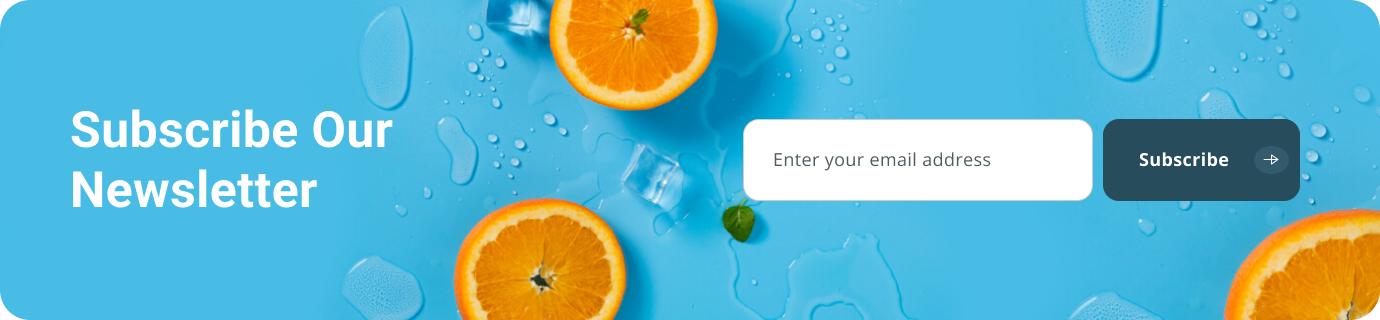
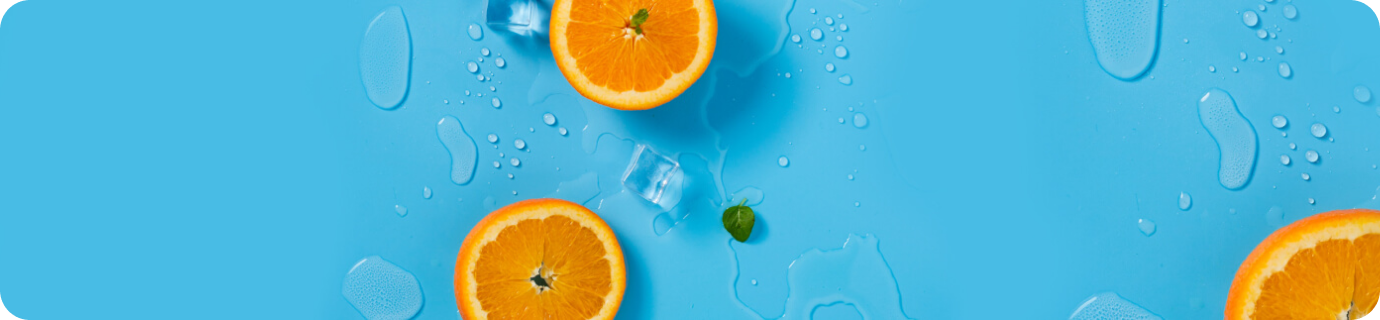
added initial styles for subscription section

Changed region(s): [[0.5297, 0.375, 0.9659, 0.625], [0.0312, 0.3438, 0.2804, 0.4688], [0.0312, 0.5312, 0.2493, 0.6562]]

diff --git a/css/main.min.css b/css/main.min.css
@@ -1,2 +1,2 @@
-.container{padding:0 30px;margin:0 auto;width:1440px}*,*::before,*::after{margin:0;padding:0}body{font-family:"Roboto",sans-serif;font-style:normal}img{display:block}.section{padding-top:130px;padding-bottom:130px}.list{list-style:none}.link{text-decoration:none}.link:focus{color:title-color}.address{font-style:normal}.about{margin-top:140px}.about__container{display:flex;justify-content:space-between;align-items:flex-start;padding:177px 0 150px 0}.about__description{margin-top:-40px}.about__title{font-weight:400;font-size:36px;line-height:1.80556;letter-spacing:.36px;text-transform:capitalize;color:#7eb693;font-family:"Yellowtail"}.about__mission{font-family:"Roboto",sans-serif;color:#274c5b;font-weight:700;font-size:45px;line-height:1.28;letter-spacing:0.36px;text-transform:capitalize}.about__mission-list{margin-top:30px}.about__mission-item{display:flex;justify-content:space-between;align-items:center;margin-top:30px}.about__mission-icon{display:inline-block}.about__description-welcome{font-family:'Open Sans';color:#525c60;font-weight:400;font-size:18px;line-height:32px;letter-spacing:0.36px;margin-top:22px;margin-bottom:50px}.about__mission-item-detailes{font-family:'Open Sans';color:#525c60;font-weight:400;font-size:18px;line-height:32px;letter-spacing:0.36px;margin-left:20px}.about__mission-item-title{display:block;font-family:"Roboto",sans-serif;color:#274c5b;font-weight:400;font-size:25px;line-height:35px;letter-spacing:0.36px}.about__mission-item-title:hover{font-weight:600;transition:font-weight 250ms linear}.about__button{width:199px;height:82px;font-weight:400;font-size:19px;line-height:1.68;letter-spacing:0.36px;font-family:"Roboto",sans-serif;background-color:#274c5b;color:#fff;border:none;border-radius:30px;margin-top:50px;cursor:pointer}.about__button:hover{box-shadow:0px 4px 4px rgba(0,0,0,0.25);transition:box-shadow 250ms linear}.about__button__container{margin:0;padding-left:30px;display:flex;justify-content:center;align-items:center}.about__button-icon{display:block;background-color:#335b6b;border-radius:50%;margin-left:25px;margin-right:10px;width:38px;height:34px;padding:12px}.about .container{background-color:#f9f8f8}.about__link{display:flex;justify-content:space-between}.ads{width:1440px;margin:0 auto}.ads__list{display:flex;justify-content:space-between;padding:140px 0;background-color:#eff6f1}.ads__item{display:block;height:580px;width:460px}.ads__item:first-child{background-image:url("../images/fruit.png")}.ads__item:nth-child(2){background-image:url("../images/food.png")}.ads__item:nth-child(3){background-image:url("../images/nuts.png")}.ads__item:not(:last-child){margin-right:30px}.ads__description{display:block;width:312px;height:95px;background-color:#ffffff;border-radius:25px;font-family:"Roboto",sans-serif;font-style:normal;font-weight:700;font-size:25px;line-height:1.4;text-align:center;letter-spacing:0.36px;color:#274c5b;padding-top:30px;margin:auto;margin-top:243px}.ads__description:hover{font-size:35px;padding-top:20px;transition:font-size 250ms linear}.cart__container{display:flex;justify-content:space-around;align-items:center;margin-left:350px;height:70px;width:159px;border:1px solid #d4d4d4;border-radius:40px}.cart__container:hover{box-shadow:0px 4px 4px rgba(0,0,0,0.25);transition:box-shadow 250ms linear}.cart__details{font-family:"Roboto",sans-serif;font-style:normal;font-weight:400;font-size:17px;line-height:1.7;color:#274c5b;letter-spacing:0.36px}.cart__added{padding-right:20px;padding-left:5px}.farm{margin:0 auto;display:block;width:1440px;height:704}.farm__container{display:flex;justify-content:center}.farm__image{background-image:url("../images/farm.png");background-repeat:no-repeat;background-size:auto;width:720px;height:704px}.farm__description{height:623px;width:790px;border-radius:30px;margin-top:40px;margin-left:-60px;padding-left:40px;padding-bottom:55px;background-color:#ffffff;position:relative;left:60}.farm__title{font-weight:400;font-size:36px;line-height:1.80556;letter-spacing:.36px;text-transform:capitalize;color:#7eb693;font-family:"Yellowtail";padding-top:40px;padding-top:40px}.farm__mission-title{font-family:"Roboto",sans-serif;color:#274c5b;font-weight:700;font-size:45px;line-height:1.28;letter-spacing:0.36px;text-transform:capitalize;padding-bottom:30px}.farm__offer-title{font-family:"Roboto",sans-serif;font-weight:700;font-size:23px;line-height:32px;letter-spacing:0.36px;text-transform:capitalize;color:#274c5b}.farm__offer-description{font-family:"Open Sans",sans-serif;font-weight:400;font-size:18px;line-height:1.78;letter-spacing:0.36px;color:#525c60;margin-top:4px;margin-bottom:15px}.header .container{display:flex;justify-content:center}.header{display:flex;width:100%;padding:40px 0}.header__logo{margin-right:160px}.navigation{display:flex;align-items:center}.navigation__list{display:flex}.navigation__list-element:not(:last-child){margin-right:40px}.navigation__list-link{font-weight:400;font-size:20px;line-height:1.6;letter-spacing:0.36px;color:#274c5b;transition:color 250ms linear}.navigation__list-link:hover,.navigation__list-link:focus{color:#7eb693}.hero{padding:230px 30px 250px 30px;margin:0 auto;display:block;height:913px;width:1440px;background-image:url("../images/hero.png");background-repeat:no-repeat;background-size:cover}.hero__title{font-weight:700;font-size:70px;line-height:1.2;letter-spacing:0.36px;color:#274c5b}.hero__description{font-weight:400;font-size:36px;line-height:1.80556;letter-spacing:.36px;text-transform:capitalize;color:#7eb693;font-family:"Yellowtail"}.hero__button{width:219px;height:82px;font-weight:400;font-size:19px;line-height:1.68;letter-spacing:0.36px;font-family:"Roboto",sans-serif;background-color:#efd372;color:#274c5b;border:none;border-radius:30px;margin-top:35px;cursor:pointer}.hero__button:hover{box-shadow:0px 4px 4px rgba(0,0,0,0.25);transition:box-shadow 250ms linear}.hero__button__container{margin:0;padding-left:15px;display:flex;justify-content:center;align-items:center}.hero__button-icon{display:block;background-color:#335b6b;border-radius:50%;margin-left:30px;width:38px;height:34px;padding:12px}.news{padding-top:130px;margin:0 auto;display:block;height:1060px;width:1440px}.news__title{font-weight:400;font-size:36px;line-height:1.80556;letter-spacing:.36px;text-transform:capitalize;color:#7eb693;font-family:"Yellowtail"}.news__offer{font-family:"Roboto",sans-serif;font-weight:700;font-size:45px;line-height:1.32;letter-spacing:0.36px;text-transform:capitalize;color:#274c5b}.news__header-container{display:flex;justify-content:space-between;align-items:baseline}.news__button{width:210px;height:82px;font-weight:400;font-size:19px;line-height:1.68;letter-spacing:0.36px;font-family:"Roboto",sans-serif;background-color:#ffffff;color:#274c5b;border:1px solid #335b6b;border-radius:20px;margin-top:35px;cursor:pointer}.news__button:hover{box-shadow:0px 4px 4px rgba(0,0,0,0.25);transition:box-shadow 250ms linear}.news__button__container{margin:0;padding-left:15px;display:flex;justify-content:center;align-items:center}.news__button-icon{display:block;background-color:#335b6b;border-radius:50%;margin-left:30px;width:38px;height:34px;padding:12px}.news__list{display:flex;margin-top:104px}.news__item:first-child{width:670px;height:515px;margin-right:30px;background-image:url("../images/salad.png")}.news__item:nth-child(2){width:670px;height:515px;background-image:url("../images/tomatoes.png")}.news__card{display:block;width:610px;height:337px;background-color:#ffffff;background:#ffffff;box-shadow:0px 2px 18px rgba(0,0,0,0.14);border-radius:30px;margin:250px auto 0;padding-top:50px;padding-left:50px}.news__author{font-family:"Roboto",sans-serif;font-style:normal;font-weight:400;font-size:17px;line-height:1.27;letter-spacing:0.36px;color:#274c5b}.news__user-container{display:flex;align-items:center}.news__card-title{font-family:"Roboto",sans-serif;font-style:normal;font-weight:700;font-size:25px;line-height:1.4;letter-spacing:0.36px;color:#274c5b;margin:10px 0 38px}.news__description{font-family:"Open Sans",sans-serif;font-style:normal;font-weight:400;font-size:18px;line-height:1.78;letter-spacing:0.36px;color:#525c60;padding-right:118px;margin-bottom:30px}.news__loadmore{font-family:"Roboto",sans-serif;font-style:normal;font-weight:400;font-size:20px;line-height:28px;letter-spacing:0.36px;color:#274c5b}.news__loadmore-container{display:flex;align-items:center}.news__loadmore-button{display:block;background-color:#335b6b;border-radius:50%;margin-left:10px;width:38px;height:34px;padding:12px}.user__icon{width:18px;height:20px;margin-right:10px}.offers{padding-top:140px}.offers__list{display:flex;justify-content:space-between}.offers__header{font-weight:400;font-size:36px;line-height:1.80556;letter-spacing:.36px;text-transform:capitalize;color:#7eb693;font-family:"Yellowtail";padding-left:55px}.offers__img{height:378px;width:665px}.offers__description{color:#274c5b;font-family:"Roboto",sans-serif;font-weight:400;font-size:40px;line-height:1.3;letter-spacing:0.36px;padding-left:55px;width:507px}.natural{color:#ffffff}.organic{padding:140px 30px 1000px;margin:0 auto;display:block;height:1060px;width:1440px;background-color:#274c5b}.organic__title{font-weight:400;font-size:36px;line-height:1.80556;letter-spacing:.36px;text-transform:capitalize;color:#7eb693;font-family:"Yellowtail"}.organic__offer{font-weight:700;font-size:45px;line-height:1.29;letter-spacing:0.36px;text-transform:capitalize;color:#ffffff}.organic__header-container{display:flex;justify-content:space-between;align-items:baseline}.organic__button{width:267px;height:82px;font-weight:400;font-size:19px;line-height:1.68;letter-spacing:0.36px;font-family:"Roboto",sans-serif;background-color:#efd372;color:#274c5b;border:none;border-radius:20px;margin-top:35px;cursor:pointer}.organic__button:hover{box-shadow:0px 4px 4px rgba(0,0,0,0.25);transition:box-shadow 250ms linear}.organic__button__container{margin:0;padding-left:15px;display:flex;justify-content:center;align-items:center}.organic__button-icon{display:block;background-color:#335b6b;border-radius:50%;margin-left:30px;width:38px;height:34px;padding:12px}.products__title{font-weight:400;font-size:36px;line-height:1.80556;letter-spacing:.36px;text-transform:capitalize;color:#7eb693;font-family:"Yellowtail";text-align:center;padding-top:110px;margin-bottom:10px}.products__description{font-family:"Roboto",sans-serif;color:#274c5b;font-weight:700;font-size:45px;line-height:1.28;letter-spacing:0.36px;text-transform:capitalize;text-align:center}.products__list{margin-top:40px;display:flex;flex-wrap:wrap;justify-content:space-between}.products__category{font-weight:700;font-size:15px;display:inline-block;padding-top:10px;padding-bottom:10px;width:118px;color:#ffffff;background-color:#274c5b;border-radius:8px;text-align:center;vertical-align:baseline;position:absolute;top:37px}.products__item{position:relative;padding:67px 30px 20px;background-color:#f9f8f8;margin-bottom:40px;border-radius:20px}.products__item:hover{box-shadow:0px 4px 4px rgba(0,0,0,0.25)}.product__image:hover{box-shadow:0px 4px 4px rgba(0,0,0,0.25)}.product__name{font-family:"Roboto",sans-serif;font-weight:400;font-size:22px;line-height:35px;color:#274c5b;border-bottom:1px solid #e5e5e5;padding:20px 0;letter-spacing:0.36px}.product__description{margin-top:30px;display:flex;justify-content:space-between;align-items:center}.product__oldprice{font-family:'Open Sans';font-style:normal;font-weight:400;font-size:17px;line-height:32px;letter-spacing:0.36px;text-decoration-line:line-through;color:#b8b8b8}.product__price{font-family:'Open Sans';font-style:normal;font-weight:700;font-size:18px;line-height:32px;letter-spacing:0.36px;color:#274c5b}.product__rating{margin-left:50px}.testimonial{margin:0 auto;display:block;padding-bottom:150px;background-image:url("../images/testimonial.png");background-repeat:no-repeat;background-size:cover;width:1440px}.testimonial__title{font-weight:400;font-size:36px;line-height:1.80556;letter-spacing:.36px;text-transform:capitalize;color:#7eb693;font-family:"Yellowtail";text-align:center;padding-top:130px;margin-top:120px}.testimonial__question{font-family:"Roboto",sans-serif;color:#274c5b;font-weight:700;font-size:45px;line-height:1.28;letter-spacing:0.36px;text-transform:capitalize;text-align:center}.testimonial__profile{padding-bottom:90px;margin:0 auto;width:966px;border-bottom:2px solid #e0e0e0}.testimonial__customer-image{margin:60px auto 18px}.testimonial__message{font-family:'Open Sans';font-style:normal;font-weight:400;font-size:18px;line-height:32px;text-align:center;letter-spacing:0.36px;color:#525c60;margin-bottom:23px}.testimonial__message-author{font-family:"Roboto",sans-serif;font-style:normal;font-weight:700;font-size:26px;line-height:34px;text-align:center;letter-spacing:0.36px;color:#274c5b}.testimonial__message-author-status{font-family:'Open Sans';font-style:normal;font-weight:400;font-size:14px;line-height:27px;text-align:center;letter-spacing:0.36px;color:#525c60}.testimonial__list{display:flex;justify-content:space-between;margin-right:168px;margin-left:168px;width:1104px}.testimonial__item{display:inline-block;vertical-align:middle;text-align:center;font-family:"Roboto",sans-serif;font-style:normal;font-weight:700;font-size:42px;line-height:40px;text-align:center;letter-spacing:0.36px;color:#274c5b;width:250px;height:250px;border-radius:50%;border:6px solid #7eb693;margin-top:100px;padding-top:80px}.testimonial__options{font-family:'Open Sans';font-size:18px;line-height:32px;margin-top:-20px}.rating{text-align:center;margin:0 auto 25px}
+.container{padding:0 30px;margin:0 auto;width:1440px}*,*::before,*::after{margin:0;padding:0}body{font-family:"Roboto",sans-serif;font-style:normal}img{display:block}.section{padding-top:130px;padding-bottom:130px}.list{list-style:none}.link{text-decoration:none}.link:focus{color:title-color}.address{font-style:normal}.about{margin-top:140px}.about__container{display:flex;justify-content:space-between;align-items:flex-start;padding:177px 0 150px 0}.about__description{margin-top:-40px}.about__title{font-weight:400;font-size:36px;line-height:1.80556;letter-spacing:.36px;text-transform:capitalize;color:#7eb693;font-family:"Yellowtail"}.about__mission{font-family:"Roboto",sans-serif;color:#274c5b;font-weight:700;font-size:45px;line-height:1.28;letter-spacing:0.36px;text-transform:capitalize}.about__mission-list{margin-top:30px}.about__mission-item{display:flex;justify-content:space-between;align-items:center;margin-top:30px}.about__mission-icon{display:inline-block}.about__description-welcome{font-family:'Open Sans';color:#525c60;font-weight:400;font-size:18px;line-height:32px;letter-spacing:0.36px;margin-top:22px;margin-bottom:50px}.about__mission-item-detailes{font-family:'Open Sans';color:#525c60;font-weight:400;font-size:18px;line-height:32px;letter-spacing:0.36px;margin-left:20px}.about__mission-item-title{display:block;font-family:"Roboto",sans-serif;color:#274c5b;font-weight:400;font-size:25px;line-height:35px;letter-spacing:0.36px}.about__mission-item-title:hover{font-weight:600;transition:font-weight 250ms linear}.about__button{width:199px;height:82px;font-weight:400;font-size:19px;line-height:1.68;letter-spacing:0.36px;font-family:"Roboto",sans-serif;background-color:#274c5b;color:#fff;border:none;border-radius:30px;margin-top:50px;cursor:pointer}.about__button:hover{box-shadow:0px 4px 4px rgba(0,0,0,0.25);transition:box-shadow 250ms linear}.about__button__container{margin:0;padding-left:30px;display:flex;justify-content:center;align-items:center}.about__button-icon{display:block;background-color:#335b6b;border-radius:50%;margin-left:25px;margin-right:10px;width:38px;height:34px;padding:12px}.about .container{background-color:#f9f8f8}.about__link{display:flex;justify-content:space-between}.ads{width:1440px;margin:0 auto}.ads__list{display:flex;justify-content:space-between;padding:140px 0;background-color:#eff6f1}.ads__item{display:block;height:580px;width:460px}.ads__item:first-child{background-image:url("../images/fruit.png")}.ads__item:nth-child(2){background-image:url("../images/food.png")}.ads__item:nth-child(3){background-image:url("../images/nuts.png")}.ads__item:not(:last-child){margin-right:30px}.ads__description{display:block;width:312px;height:95px;background-color:#ffffff;border-radius:25px;font-family:"Roboto",sans-serif;font-style:normal;font-weight:700;font-size:25px;line-height:1.4;text-align:center;letter-spacing:0.36px;color:#274c5b;padding-top:30px;margin:auto;margin-top:243px}.ads__description:hover{font-size:35px;padding-top:20px;transition:font-size 250ms linear}.cart__container{display:flex;justify-content:space-around;align-items:center;margin-left:350px;height:70px;width:159px;border:1px solid #d4d4d4;border-radius:40px}.cart__container:hover{box-shadow:0px 4px 4px rgba(0,0,0,0.25);transition:box-shadow 250ms linear}.cart__details{font-family:"Roboto",sans-serif;font-style:normal;font-weight:400;font-size:17px;line-height:1.7;color:#274c5b;letter-spacing:0.36px}.cart__added{padding-right:20px;padding-left:5px}.farm{margin:0 auto;display:block;width:1440px;height:704}.farm__container{display:flex;justify-content:center}.farm__image{background-image:url("../images/farm.png");background-repeat:no-repeat;background-size:auto;width:720px;height:704px}.farm__description{height:623px;width:790px;border-radius:30px;margin-top:40px;margin-left:-60px;padding-left:40px;padding-bottom:55px;background-color:#ffffff;position:relative;left:60}.farm__title{font-weight:400;font-size:36px;line-height:1.80556;letter-spacing:.36px;text-transform:capitalize;color:#7eb693;font-family:"Yellowtail";padding-top:40px;padding-top:40px}.farm__mission-title{font-family:"Roboto",sans-serif;color:#274c5b;font-weight:700;font-size:45px;line-height:1.28;letter-spacing:0.36px;text-transform:capitalize;padding-bottom:30px}.farm__offer-title{font-family:"Roboto",sans-serif;font-weight:700;font-size:23px;line-height:32px;letter-spacing:0.36px;text-transform:capitalize;color:#274c5b}.farm__offer-description{font-family:"Open Sans",sans-serif;font-weight:400;font-size:18px;line-height:1.78;letter-spacing:0.36px;color:#525c60;margin-top:4px;margin-bottom:15px}.header .container{display:flex;justify-content:center}.header{display:flex;width:100%;padding:40px 0}.header__logo{margin-right:160px}.navigation{display:flex;align-items:center}.navigation__list{display:flex}.navigation__list-element:not(:last-child){margin-right:40px}.navigation__list-link{font-weight:400;font-size:20px;line-height:1.6;letter-spacing:0.36px;color:#274c5b;transition:color 250ms linear}.navigation__list-link:hover,.navigation__list-link:focus{color:#7eb693}.hero{padding:230px 30px 250px 30px;margin:0 auto;display:block;height:913px;width:1440px;background-image:url("../images/hero.png");background-repeat:no-repeat;background-size:cover}.hero__title{font-weight:700;font-size:70px;line-height:1.2;letter-spacing:0.36px;color:#274c5b}.hero__description{font-weight:400;font-size:36px;line-height:1.80556;letter-spacing:.36px;text-transform:capitalize;color:#7eb693;font-family:"Yellowtail"}.hero__button{width:219px;height:82px;font-weight:400;font-size:19px;line-height:1.68;letter-spacing:0.36px;font-family:"Roboto",sans-serif;background-color:#efd372;color:#274c5b;border:none;border-radius:30px;margin-top:35px;cursor:pointer}.hero__button:hover{box-shadow:0px 4px 4px rgba(0,0,0,0.25);transition:box-shadow 250ms linear}.hero__button__container{margin:0;padding-left:15px;display:flex;justify-content:center;align-items:center}.hero__button-icon{display:block;background-color:#335b6b;border-radius:50%;margin-left:30px;width:38px;height:34px;padding:12px}.news{padding-top:130px;margin:0 auto;display:block;height:1060px;width:1440px}.news__title{font-weight:400;font-size:36px;line-height:1.80556;letter-spacing:.36px;text-transform:capitalize;color:#7eb693;font-family:"Yellowtail"}.news__offer{font-family:"Roboto",sans-serif;font-weight:700;font-size:45px;line-height:1.32;letter-spacing:0.36px;text-transform:capitalize;color:#274c5b}.news__header-container{display:flex;justify-content:space-between;align-items:baseline}.news__button{width:210px;height:82px;font-weight:400;font-size:19px;line-height:1.68;letter-spacing:0.36px;font-family:"Roboto",sans-serif;background-color:#ffffff;color:#274c5b;border:1px solid #335b6b;border-radius:20px;margin-top:35px;cursor:pointer}.news__button:hover{box-shadow:0px 4px 4px rgba(0,0,0,0.25);transition:box-shadow 250ms linear}.news__button__container{margin:0;padding-left:15px;display:flex;justify-content:center;align-items:center}.news__button-icon{display:block;background-color:#335b6b;border-radius:50%;margin-left:30px;width:38px;height:34px;padding:12px}.news__list{display:flex;margin-top:104px}.news__item:first-child{width:670px;height:515px;margin-right:30px;background-image:url("../images/salad.png")}.news__item:nth-child(2){width:670px;height:515px;background-image:url("../images/tomatoes.png")}.news__card{display:block;width:610px;height:337px;background-color:#ffffff;background:#ffffff;box-shadow:0px 2px 18px rgba(0,0,0,0.14);border-radius:30px;margin:250px auto 0;padding-top:50px;padding-left:50px}.news__author{font-family:"Roboto",sans-serif;font-style:normal;font-weight:400;font-size:17px;line-height:1.27;letter-spacing:0.36px;color:#274c5b}.news__user-container{display:flex;align-items:center}.news__card-title{font-family:"Roboto",sans-serif;font-style:normal;font-weight:700;font-size:25px;line-height:1.4;letter-spacing:0.36px;color:#274c5b;margin:10px 0 38px}.news__description{font-family:"Open Sans",sans-serif;font-style:normal;font-weight:400;font-size:18px;line-height:1.78;letter-spacing:0.36px;color:#525c60;padding-right:118px;margin-bottom:30px}.news__loadmore{font-family:"Roboto",sans-serif;font-style:normal;font-weight:400;font-size:20px;line-height:28px;letter-spacing:0.36px;color:#274c5b}.news__loadmore-container{display:flex;align-items:center}.news__loadmore-button{display:block;background-color:#335b6b;border-radius:50%;margin-left:10px;width:38px;height:34px;padding:12px}.user__icon{width:18px;height:20px;margin-right:10px}.offers{padding-top:140px}.offers__list{display:flex;justify-content:space-between}.offers__header{font-weight:400;font-size:36px;line-height:1.80556;letter-spacing:.36px;text-transform:capitalize;color:#7eb693;font-family:"Yellowtail";padding-left:55px}.offers__img{height:378px;width:665px}.offers__description{color:#274c5b;font-family:"Roboto",sans-serif;font-weight:400;font-size:40px;line-height:1.3;letter-spacing:0.36px;padding-left:55px;width:507px}.natural{color:#ffffff}.organic{padding:140px 30px 1000px;margin:0 auto;display:block;height:1060px;width:1440px;background-color:#274c5b}.organic__title{font-weight:400;font-size:36px;line-height:1.80556;letter-spacing:.36px;text-transform:capitalize;color:#7eb693;font-family:"Yellowtail"}.organic__offer{font-weight:700;font-size:45px;line-height:1.29;letter-spacing:0.36px;text-transform:capitalize;color:#ffffff}.organic__header-container{display:flex;justify-content:space-between;align-items:baseline}.organic__button{width:267px;height:82px;font-weight:400;font-size:19px;line-height:1.68;letter-spacing:0.36px;font-family:"Roboto",sans-serif;background-color:#efd372;color:#274c5b;border:none;border-radius:20px;margin-top:35px;cursor:pointer}.organic__button:hover{box-shadow:0px 4px 4px rgba(0,0,0,0.25);transition:box-shadow 250ms linear}.organic__button__container{margin:0;padding-left:15px;display:flex;justify-content:center;align-items:center}.organic__button-icon{display:block;background-color:#335b6b;border-radius:50%;margin-left:30px;width:38px;height:34px;padding:12px}.products__title{font-weight:400;font-size:36px;line-height:1.80556;letter-spacing:.36px;text-transform:capitalize;color:#7eb693;font-family:"Yellowtail";text-align:center;padding-top:110px;margin-bottom:10px}.products__description{font-family:"Roboto",sans-serif;color:#274c5b;font-weight:700;font-size:45px;line-height:1.28;letter-spacing:0.36px;text-transform:capitalize;text-align:center}.products__list{margin-top:40px;display:flex;flex-wrap:wrap;justify-content:space-between}.products__category{font-weight:700;font-size:15px;display:inline-block;padding-top:10px;padding-bottom:10px;width:118px;color:#ffffff;background-color:#274c5b;border-radius:8px;text-align:center;vertical-align:baseline;position:absolute;top:37px}.products__item{position:relative;padding:67px 30px 20px;background-color:#f9f8f8;margin-bottom:40px;border-radius:20px}.products__item:hover{box-shadow:0px 4px 4px rgba(0,0,0,0.25)}.product__image:hover{box-shadow:0px 4px 4px rgba(0,0,0,0.25)}.product__name{font-family:"Roboto",sans-serif;font-weight:400;font-size:22px;line-height:35px;color:#274c5b;border-bottom:1px solid #e5e5e5;padding:20px 0;letter-spacing:0.36px}.product__description{margin-top:30px;display:flex;justify-content:space-between;align-items:center}.product__oldprice{font-family:'Open Sans';font-style:normal;font-weight:400;font-size:17px;line-height:32px;letter-spacing:0.36px;text-decoration-line:line-through;color:#b8b8b8}.product__price{font-family:'Open Sans';font-style:normal;font-weight:700;font-size:18px;line-height:32px;letter-spacing:0.36px;color:#274c5b}.product__rating{margin-left:50px}.subscription{display:block;width:1380px;height:320px;margin:0 auto;border-radius:30px;background-color:#274c5b;background-image:url("../images/subscribe-bg.png")}.subscription__form-wrapper{display:flex;align-items:baseline}.subscription__form-title{font-family:"Roboto",sans-serif;font-style:normal;font-weight:700;font-size:50px;line-height:1.2;letter-spacing:0.36px;text-transform:capitalize;color:#ffffff}.testimonial{margin:0 auto;display:block;padding-bottom:150px;background-image:url("../images/testimonial.png");background-repeat:no-repeat;background-size:cover;width:1440px}.testimonial__title{font-weight:400;font-size:36px;line-height:1.80556;letter-spacing:.36px;text-transform:capitalize;color:#7eb693;font-family:"Yellowtail";text-align:center;padding-top:130px;margin-top:120px}.testimonial__question{font-family:"Roboto",sans-serif;color:#274c5b;font-weight:700;font-size:45px;line-height:1.28;letter-spacing:0.36px;text-transform:capitalize;text-align:center}.testimonial__profile{padding-bottom:90px;margin:0 auto;width:966px;border-bottom:2px solid #e0e0e0}.testimonial__customer-image{margin:60px auto 18px}.testimonial__message{font-family:'Open Sans';font-style:normal;font-weight:400;font-size:18px;line-height:32px;text-align:center;letter-spacing:0.36px;color:#525c60;margin-bottom:23px}.testimonial__message-author{font-family:"Roboto",sans-serif;font-style:normal;font-weight:700;font-size:26px;line-height:34px;text-align:center;letter-spacing:0.36px;color:#274c5b}.testimonial__message-author-status{font-family:'Open Sans';font-style:normal;font-weight:400;font-size:14px;line-height:27px;text-align:center;letter-spacing:0.36px;color:#525c60}.testimonial__list{display:flex;justify-content:space-between;margin-right:168px;margin-left:168px;width:1104px}.testimonial__item{display:inline-block;vertical-align:middle;text-align:center;font-family:"Roboto",sans-serif;font-style:normal;font-weight:700;font-size:42px;line-height:40px;text-align:center;letter-spacing:0.36px;color:#274c5b;width:250px;height:250px;border-radius:50%;border:6px solid #7eb693;margin-top:100px;padding-top:80px}.testimonial__options{font-family:'Open Sans';font-size:18px;line-height:32px;margin-top:-20px}.rating{text-align:center;margin:0 auto 25px}
 /*# sourceMappingURL=main.min.css.map */

diff --git a/index.html b/index.html
@@ -584,7 +584,21 @@
     </main>
 
     <!--SUBSCRIBE Section-->
-    <section>Subscribe</section>
+    <section class="subscription">
+<form class="subscription__form-wrapper">
+  <b class="subscription__form-title">Subscribe our<br>Newsletter</b>
+  <div class="subscription__form">
+    <input type="email" name="user-email" class="subscribe-form-input" placeholder="E-mail" required="">
+    <button type="submit" class="subscription__form-btn">
+            <span class="subscription__send-button-wrapper">Подписаться
+              <svg class="subscription__send-icon" width="24px" height="24px">
+                <use href="../images/sprite.svg#arrow"></use>
+              </svg>
+            </span>
+          </button>
+  </div>
+</form>
+    </section>
 
     <!--CONTACTS Section-->
     <section>Contacts</section>

diff --git a/css/main.css b/css/main.css
@@ -844,6 +844,32 @@ img {
   margin-left: 50px;
 }
 
+.subscription {
+  display: block;
+  width: 1380px;
+  height: 320px;
+  margin: 0 auto;
+  border-radius: 30px;
+  background-color: #274c5b;
+  background-image: url("../images/subscribe-bg.png");
+}
+
+.subscription__form-wrapper {
+  display: flex;
+  align-items: baseline;
+}
+
+.subscription__form-title {
+  font-family: "Roboto", sans-serif;
+  font-style: normal;
+  font-weight: 700;
+  font-size: 50px;
+  line-height: 1.2;
+  letter-spacing: 0.36px;
+  text-transform: capitalize;
+  color: #ffffff;
+}
+
 .testimonial {
   margin: 0 auto;
   display: block;

diff --git a/sass/layouts/_subscription.scss b/sass/layouts/_subscription.scss
@@ -1,0 +1,27 @@
+.subscription {
+  display: block;
+  width: 1380px;
+  height: 320px;
+  margin: 0 auto;
+  border-radius: 30px;
+
+  background-color: $title-color;
+  background-image: url('../images/subscribe-bg.png');
+
+  &__form {
+    &-wrapper {
+      display: flex;
+      align-items: baseline;
+    }
+    &-title {
+      font-family: $main-font;
+      font-style: normal;
+      font-weight: 700;
+      font-size: 50px;
+      line-height: 1.2;
+      letter-spacing: 0.36px;
+      text-transform: capitalize;
+      color: #ffffff;
+    }
+  }
+}

diff --git a/sass/main.scss b/sass/main.scss
@@ -20,4 +20,5 @@
 @import './layouts/offers';
 @import './layouts/organic';
 @import './layouts/products';
+@import './layouts/subscription';
 @import './layouts/testimonial';
